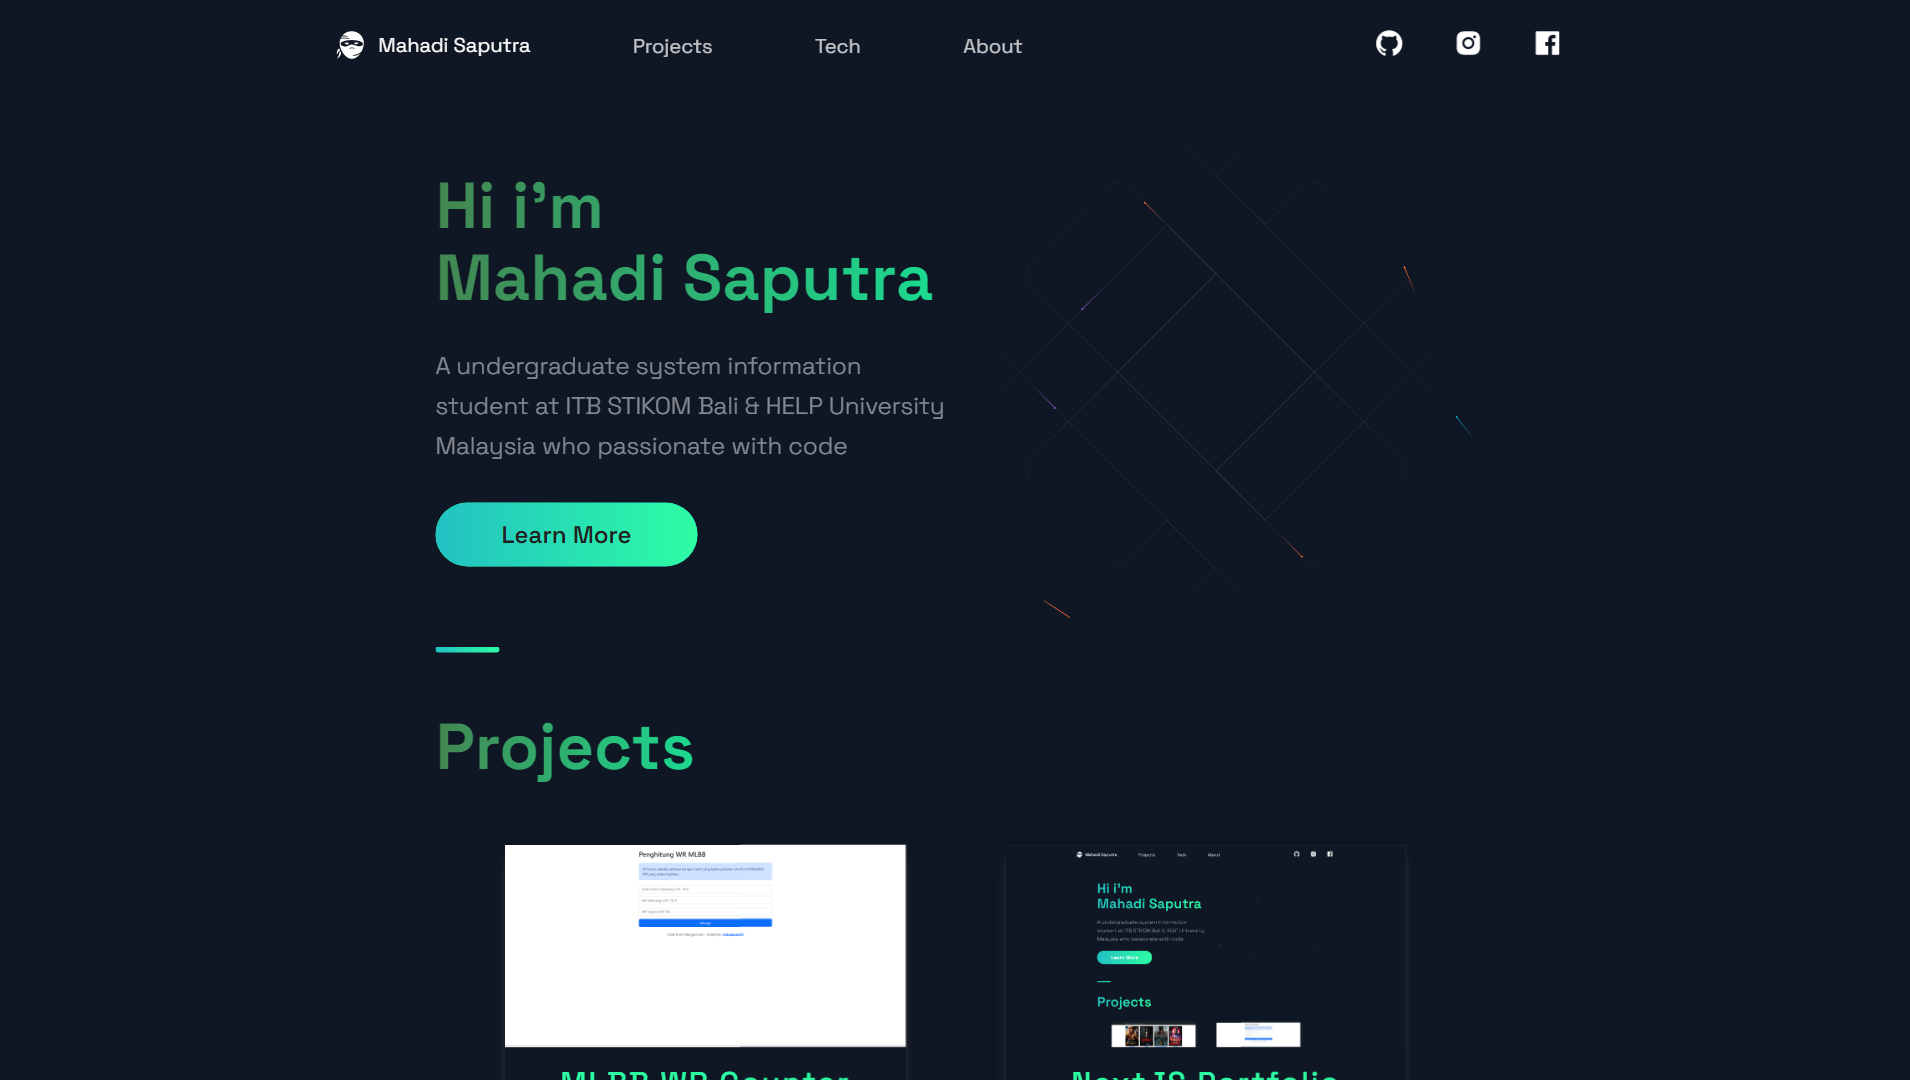
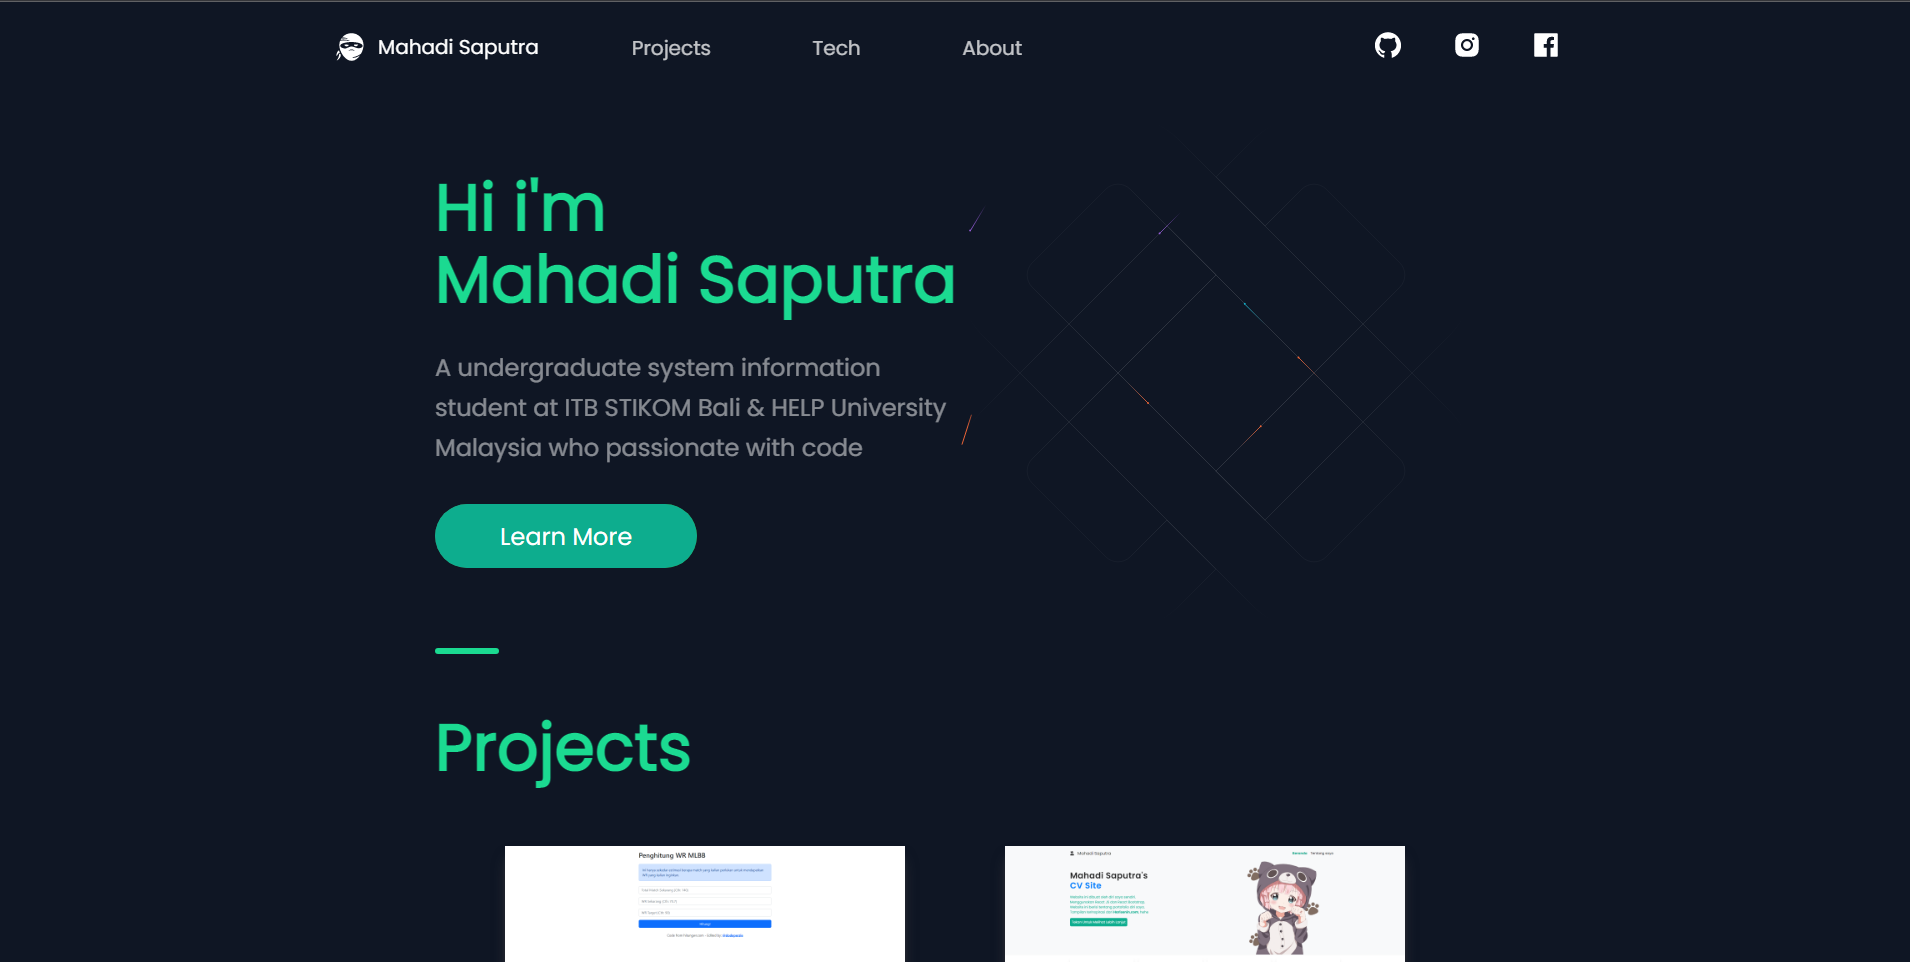
Change font to Poppins, remove linear gradient to make more simple, etc

diff --git a/src/styles/GlobalComponents/index.js b/src/styles/GlobalComponents/index.js
@@ -30,7 +30,7 @@ export const SectionTitle = styled.h2`
   line-height: ${(props) => props.main ? '72px' : '56px'};
   width: max-content;
   max-width: 100%;
-  background: linear-gradient(270deg, rgba(27,218,145,1) 0%, rgba(67,134,81,1) 100%);
+  background: rgba(27,218,145,1);
   -webkit-background-clip: text;
   -webkit-text-fill-color: transparent;
   margin-bottom: 16px;
@@ -84,7 +84,7 @@ export const SectionDivider = styled.div`
   background-color: #fff;
   background: ${(props) => props.colorAlt ? 
     'linear-gradient(270deg, #F46737 0%, #945DD6 100%)' :
-    'linear-gradient(90deg, rgba(34,193,195,1) 0%, rgba(45,253,163,1) 100%)'};
+    'rgba(27,218,145,1)'};
 
     margin: ${(props) => props.divider ? "4rem 0" : "" };
 
@@ -171,13 +171,13 @@ export const ButtonBack = styled.div`
   height: ${({ alt }) => alt ? '52px' : '64px'};
   border-radius: 50px;
   font-size: ${({ alt }) => alt ? '20px' : '24px'};
-  font-weight: 600;
+  font-weight: 400;
   display: flex;
   align-items: center;
   justify-content: center;
   margin: ${({ alt, form }) => (alt || form) ? '0' : '0 0 80px'};
-  color: #222;
-  background: ${({ alt }) => alt ? 'linear-gradient(270deg, #ff622e 0%, #B133FF 100%)' : 'linear-gradient(270deg, rgba(34,193,195,1) 0%, rgba(45,253,163,1) 100%)'};
+  color: #fff;
+  background: ${({ alt }) => alt ? 'linear-gradient(270deg, #ff622e 0%, #B133FF 100%)' : 'linear-gradient(90deg, rgba(51,143,108,1) 0%, rgba(48,150,69,1) 100%)'};
   cursor: pointer;
   transition: 0.5s ease;
   position: relative;
@@ -202,18 +202,18 @@ export const ButtonBack = styled.div`
 export const ButtonFront = styled.button`
   border: none;
   border-radius: 50px;
-  color: #222;
+  color: #fff;
   display: flex;
   position: absolute;
   top: 0;
   left: 0;
   width: 100%;
   height: 100%;
-  background: ${({ alt }) => alt ? 'linear-gradient(270deg, #F46737 0%, #945DD6 100%)' : 'linear-gradient(90deg, rgba(34,193,195,1) 0%, rgba(45,253,163,1) 100%)'};
+  background: ${({ alt }) => alt ? 'linear-gradient(270deg, #F46737 0%, #945DD6 100%)' : '#0DAD8E'};
   opacity: ${({ disabled }) => disabled ? '.5' : '1'};
   transition: .4s ease;
   font-size: ${({ alt }) => alt ? '20px' : '24px'};
-  font-weight: 600;
+  font-weight: 400;
   align-items: center;
   justify-content: center;
   cursor: pointer;

diff --git a/src/constants/constants.js b/src/constants/constants.js
@@ -9,21 +9,21 @@ export const projects = [
     id: 0,
   },
   {
-    title: 'NextJS Portfolio',
-    description: "You're on this portfolio site now! Mahadi Saputra'\s second portfolio website created with NextJS!",
-      image: '/images/4.png',
-      tags: ['AOS', 'NextJS'],
-    source: 'https://github.com/dodepersie/nextjs-portofolio',
-    visit: 'https://mahadisaputra.my.id/',
-    id: 1,
-  },
-  {
     title: 'ReactJS Portfolio',
     description: "Mahadi Saputra'\s first and complete portfolio website created with ReactJS, Bootstrap and AOS Library!",
       image: '/images/3.png',
       tags: ['AOS', 'Bootstrap', 'React'],
     source: 'https://github.com/dodepersie/landing',
     visit: 'https://v1.mahadisaputra.my.id/',
+    id: 1,
+  },
+  {
+    title: 'NextJS Portfolio',
+    description: "You're on this portfolio site now! Mahadi Saputra'\s second portfolio website created with NextJS!",
+      image: '/images/4.png',
+      tags: ['AOS', 'NextJS'],
+    source: 'https://github.com/dodepersie/nextjs-portofolio',
+    visit: 'https://mahadisaputra.my.id/',
     id: 2,
   },
   {

diff --git a/src/components/Header/Header.js b/src/components/Header/Header.js
@@ -8,14 +8,14 @@ import { Container, Div1, Div2, Div3, NavLink, SocialIcons, Span } from './Heade
 const Header = () =>  {
   return (
     <Container>
-      <Div1 data-aos="fade-right" data-aos-duration="1000">
+      <Div1 data-aos="fade-right" data-aos-duration="500">
         <Link href="/">
           <a style={{ display: "flex", alignItems: "center", color: 'white'}}>
             <GiNinjaHead size="3rem"/> <Span>Mahadi Saputra</Span>
           </a>
         </Link>
       </Div1>
-      <Div2 data-aos="zoom-out-down" data-aos-duration="1000">
+      <Div2 data-aos="zoom-out-down" data-aos-duration="500">
         <li>
           <Link href="#projects">
             <NavLink>Projects</NavLink>
@@ -32,7 +32,7 @@ const Header = () =>  {
           </Link>
         </li>
       </Div2>
-      <Div3 data-aos="fade-left" data-aos-duration="1000">
+      <Div3 data-aos="fade-left" data-aos-duration="500">
         <SocialIcons href="https://github.com/dodepersie">
           <AiFillGithub size="3rem" />
         </SocialIcons>

diff --git a/src/components/Footer/Footer.js b/src/components/Footer/Footer.js
@@ -6,7 +6,7 @@ import { CompanyContainer, FooterWrapper, LinkColumn, LinkItem, LinkList, LinkTi
 const Footer = () => {
   return (
     <FooterWrapper>
-    <div data-aos="fade-up" data-aos-duration="1000">
+    <div data-aos="fade-up" data-aos-duration="500">
       <LinkList>
         <LinkColumn>
           <LinkTitle>Call</LinkTitle>
@@ -19,10 +19,10 @@ const Footer = () => {
       </LinkList>
       </div>
       <SocialIconsContainer>
-        <CompanyContainer data-aos="fade-right" data-aos-duration="1000">
+        <CompanyContainer data-aos="fade-right" data-aos-duration="500">
         <Slogan>@ 2022 - mahadisaputra.my.id</Slogan>
         </CompanyContainer>
-        <SocialContainer data-aos="fade-left" data-aos-duration="1000">
+        <SocialContainer data-aos="fade-left" data-aos-duration="500" style={{ overflowX: "hidden" }}>
         <SocialIcons href="https://github.com/dodepersie">
         <AiFillGithub size="3rem" />
         </SocialIcons>

diff --git a/src/components/TimeLine/TimeLineStyles.js b/src/components/TimeLine/TimeLineStyles.js
@@ -51,7 +51,7 @@ export const CarouselItem = styled.div`
   @media ${props => props.theme.breakpoints.sm} {
     margin-left: 32px;
     min-width: 120px;
-    background: #0E131F;
+    background: transparent;
     padding: 4px;
     align-content: start;
     scroll-snap-align: start;
@@ -71,7 +71,7 @@ export const CarouselItemTitle = styled.h4`
   letter-spacing: 0.02em;
   display: flex;
   /* This gradient is different due to the size of the Title container, it must transition sooner to be visible on the text */
-  background: linear-gradient(121.57deg, #FFFFFF 10%, rgba(255, 255, 255, 0.66) 30.15%);
+  background: rgba(27,218,145,1);
   -webkit-background-clip: text;
   -webkit-text-fill-color: transparent;
   margin-bottom: 8px;

diff --git a/src/components/Header/HeaderNotFound.js b/src/components/Header/HeaderNotFound.js
@@ -8,14 +8,14 @@ import { Container, Div1, Div2, Div3, NavLink, SocialIcons, Span } from './Heade
 const HeaderNotFound = () =>  {
   return (
     <Container>
-      <Div1 data-aos="fade-right" data-aos-duration="1000">
+      <Div1 data-aos="fade-right" data-aos-duration="500">
         <Link href="/">
           <a style={{ display: "flex", alignItems: "center", color: 'white'}}>
             <GiNinjaHead size="3rem"/> <Span>Mahadi Saputra</Span>
           </a>
         </Link>
       </Div1>
-      <Div3 data-aos="fade-left" data-aos-duration="1000">
+      <Div3 data-aos="fade-left" data-aos-duration="500">
         <SocialIcons href="https://github.com/dodepersie">
           <AiFillGithub size="3rem" />
         </SocialIcons>

diff --git a/src/components/Technologies/Technologies.js b/src/components/Technologies/Technologies.js
@@ -6,7 +6,7 @@ import { List, ListContainer, ListItem, ListParagraph, ListTitle } from './Techn
 const Technologies = () =>  (
   <Section id="tech">
     <SectionDivider />
-    <div data-aos="fade-up" data-aos-duration="1000">
+    <div data-aos="fade-up" data-aos-duration="500">
     <SectionTitle main>Technologies</SectionTitle>
     <SectionText>
       I have done some projects by myself and i'm a Front-End Web Dev addict and still learning about Back-End Web Dev (‾◡◝)

diff --git a/src/pages/_document.js b/src/pages/_document.js
@@ -29,9 +29,9 @@ export default class MyDocument extends Document {
   }
   render() {
     return (
-      <Html lang='en-GB'>
+      <Html lang='en-US'>
         <Head>
-          <link href="https://fonts.googleapis.com/css2?family=Space+Grotesk:wght@300;400;500;600;700&display=swap" rel="stylesheet"/>
+          <link href="https://fonts.googleapis.com/css2?family=Poppins&display=swap" rel="stylesheet" />
         </Head>
         <body>
           <Main />

diff --git a/src/styles/globals.js b/src/styles/globals.js
@@ -12,7 +12,6 @@ const GlobalStyles = createGlobalStyle`
   html {
     font-size: 62.5%;
     scroll-behavior: smooth;
-    overflow-x: hidden;
 
   }
   body {
@@ -22,6 +21,7 @@ const GlobalStyles = createGlobalStyle`
     color: ${props => props.theme.colors.primary1};
     cursor: default;
     user-select: none;
+    overflow-x: hidden;
 
   }
   h1,h2,h3,h4,h5,h6,button {

diff --git a/src/components/Projects/Projects.js b/src/components/Projects/Projects.js
@@ -5,7 +5,7 @@ import { Section, SectionDivider, SectionTitle } from '../../styles/GlobalCompon
 import { projects } from '../../constants/constants';
 
 const Projects = () => (
-  <div data-aos="fade-up" data-aos-duration="1000">
+  <div data-aos="fade-up" data-aos-duration="500">
   <Section nopadding id="projects">
     <SectionDivider />
     <SectionTitle main>

diff --git a/src/components/TimeLine/TimeLine.js b/src/components/TimeLine/TimeLine.js
@@ -43,7 +43,7 @@ const Timeline = () => {
   }, []);
 
   return (
-    <div data-aos="fade-up" data-aos-duration="1000">
+    <div data-aos="fade-up" data-aos-duration="500">
     <Section id="about">
     <SectionTitle>About me</SectionTitle>
     <SectionText>

diff --git a/src/components/Acomplishments/Acomplishments.js b/src/components/Acomplishments/Acomplishments.js
@@ -11,7 +11,7 @@ const data = [
 ];
 
 const Acomplishments = () => (
-  <div data-aos="fade-up" data-aos-duration="1000">
+  <div data-aos="fade-up" data-aos-duration="500">
     <Section>
       <SectionTitle>Accomplishments</SectionTitle>
       <Boxes>
